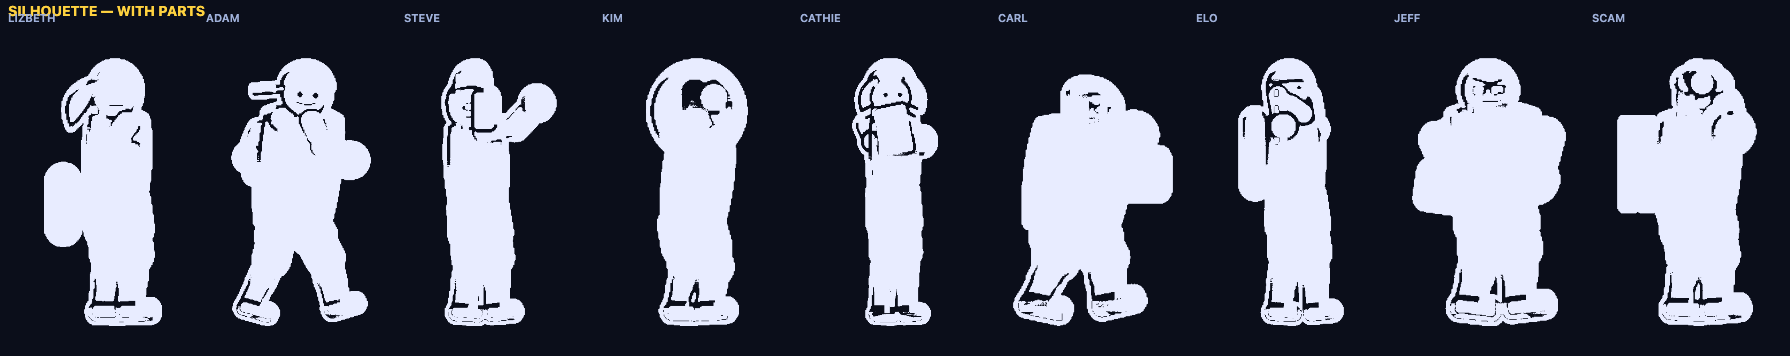
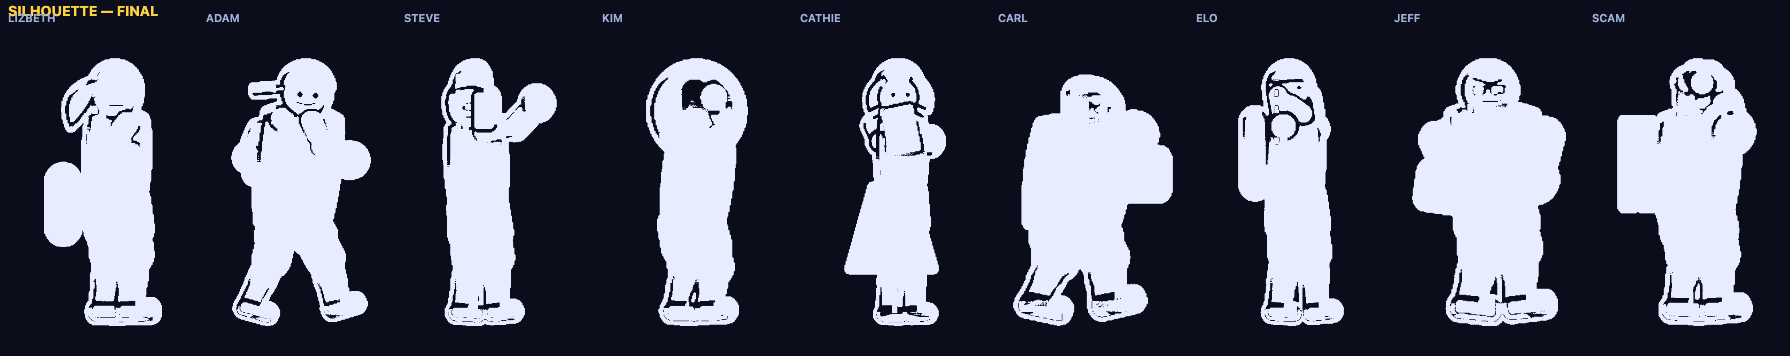
fix(parts): Cathie's coat has to contrast AND flare to read
Two separate reasons the first version was invisible, both found by looking:

- suit2 #111a3d against a #1c2a5e suit and a dark navy arena. A garment
  drawn BEHIND the body cannot rely on shape alone when the backdrop is the
  same value as the fighter. Now `hair` (#f2ece0), which also suits her.
- 44px wide is narrower than the legs that cover it. A coat only reads when
  the hem flares PAST the silhouette, so the outline changes.

She was the narrowest column in the cast; she now has a shape below the
waist, which is what the coat was for.

Changed region(s): [[0.4609, 0.1545, 0.5531, 0.927], [0.0615, 0.0, 0.1229, 0.0618]]

diff --git a/src/data/fighters.js b/src/data/fighters.js
@@ -345,9 +345,18 @@ export const FIGHTERS = [
       { id: 'tablet', shape: 'roundRect', anchor: 'armB', dx: 20, dy: -10,
         w: 34, h: 46, rot: -0.2, fill: 'accent', z: 'front' },
       // A coat, and the first use of cloth lag: it trails the hips and settles.
-      { id: 'coat', shape: 'path', anchor: 'hip', dx: 0, dy: 0,
-        pts: [[-16, -4], [16, -4], [22, 46], [-22, 46]],
-        fill: 'suit2', z: 'behind', follow: 0.35 },
+      //
+      // `hair` (#f2ece0), not `suit2`. suit2 is #111a3d against a #1c2a5e suit
+      // AND a dark navy arena — dark on dark twice over, and it vanished. A
+      // garment behind the body cannot rely on shape alone when the backdrop is
+      // the same value as the fighter. The cream reads as a long coat over the
+      // suit, which is also more the part.
+      // It must also FLARE past the body. Drawn behind, a 44px-wide coat is
+      // entirely covered by the legs; only a hem wider than the silhouette
+      // actually reads as a coat.
+      { id: 'coat', shape: 'path', anchor: 'hip', dx: 0, dy: -6,
+        pts: [[-18, 0], [18, 0], [40, 74], [-40, 74]],
+        fill: 'hair', z: 'behind', follow: 0.35 },
     ],
   },
   {
